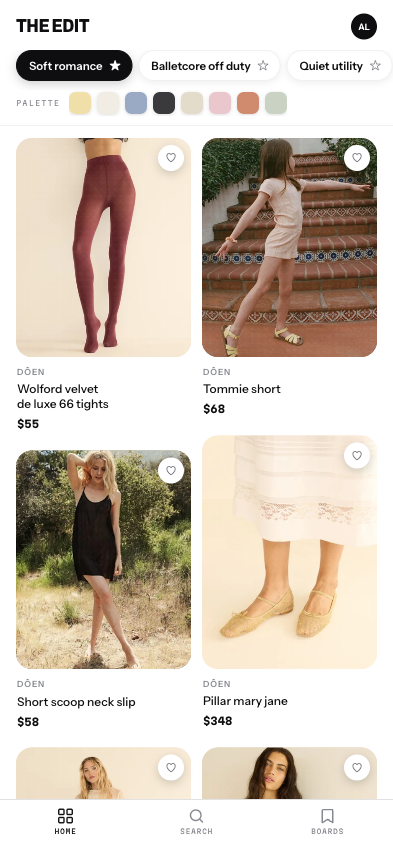
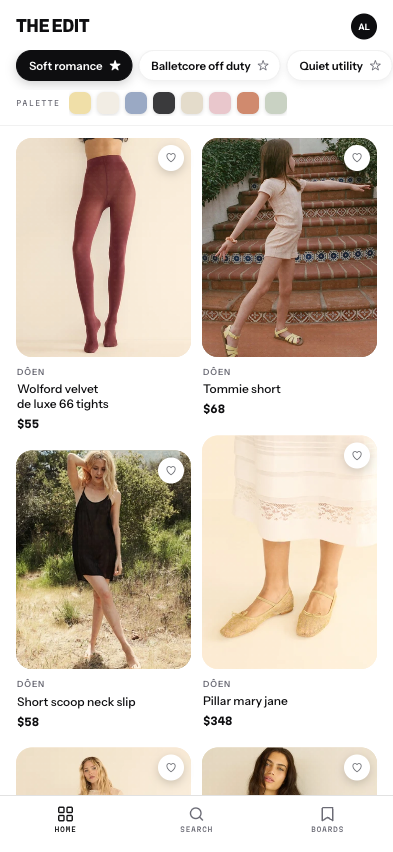
Phase 5: keyboard, targets and contrast, measured rather than asserted
Every finding here came from driving the app and reading numbers off it.

The save sheet was not a modal for anyone using a keyboard. aria-modal told
assistive tech the page behind was unavailable while Tab walked straight out
into twelve controls underneath, and opening the sheet left focus on the button
that opened it — so a keyboard user got a dialog they were not in. Focus now
moves in on open, Tab cycles within and wraps at both ends, Escape closes, and
focus returns to whatever opened it. That last part matters most: landing on
<body> after a dialog closes means the next Tab starts from the top of the page.

Tap targets. Everything now clears 44px tall. Where the visual size is the
design's, an invisible ::after stretches the hit area without moving a pixel —
the save heart goes from 26px to 44, the chips and their stars from 29.

Two stay narrow on purpose and I would rather say so than quietly claim 44.
The palette swatches are 22px on a 31px pitch, so a 44px-wide target would
overlap its neighbour by 13px and the overlap would decide which colour you
got; they take the gap and no more, 31×44. The star inside a chip is 25 wide
because widening it would put its target over the next chip's label. Both clear
WCAG 2.5.8's 24px minimum with spacing.

Contrast. The garment label was the case that could not be asserted from
tokens, because it sits on a colour the catalogue supplies. Measured across all
[…]

Changed region(s): [[0.0305, 0.9155, 0.5191, 0.9765], [0.5191, 0.9155, 0.9771, 0.9765]]

diff --git a/components/BottomSheet.tsx b/components/BottomSheet.tsx
@@ -1,6 +1,6 @@
 "use client";
 
-import { useEffect } from "react";
+import { useEffect, useRef } from "react";
 import type { CSSProperties, ReactNode } from "react";
 import styles from "./BottomSheet.module.css";
 
@@ -14,10 +14,24 @@ export type BottomSheetProps = {
   style?: CSSProperties;
 };
 
+/** Everything a keyboard can land on, in document order. */
+const FOCUSABLE =
+  'button, a[href], input, textarea, select, [tabindex]:not([tabindex="-1"])';
+
 /**
  * BottomSheet — the bottom-anchored modal used for Save to board.
  * Renders nothing when closed. It positions against the nearest
  * positioned ancestor, so keep it inside the app frame.
+ *
+ * It is a real modal for the keyboard as well as for the screen. It was not:
+ * aria-modal told assistive tech the page behind was unavailable while Tab
+ * walked straight out into it, and opening the sheet left focus on the button
+ * that opened it — so a keyboard user got a dialog they were not in and could
+ * tab through twelve controls they could not see.
+ *
+ * So: focus moves in on open, Tab cycles within, Escape closes, and focus
+ * returns to whatever opened it. That last part matters most — losing your
+ * place on close is worse than never having been moved.
  */
 export default function BottomSheet({
   open = false,
@@ -27,13 +41,54 @@ export default function BottomSheet({
   className,
   style,
 }: BottomSheetProps) {
+  const sheetRef = useRef<HTMLDivElement>(null);
+  /* Whatever had focus when this opened, so it can be given back. */
+  const opener = useRef<HTMLElement | null>(null);
+
   useEffect(() => {
-    if (!open || !onClose) return;
+    if (!open) return;
+
+    opener.current = document.activeElement as HTMLElement | null;
+
+    /* Into the sheet, on the first thing worth touching — the first board in
+       the list rather than the drag handle. */
+    const first = sheetRef.current?.querySelector<HTMLElement>(FOCUSABLE);
+    (first ?? sheetRef.current)?.focus();
+
     const onKey = (e: KeyboardEvent) => {
-      if (e.key === "Escape") onClose();
+      if (e.key === "Escape") {
+        onClose?.();
+        return;
+      }
+      if (e.key !== "Tab") return;
+
+      const inSheet = Array.from(
+        sheetRef.current?.querySelectorAll<HTMLElement>(FOCUSABLE) ?? [],
+      ).filter((el) => el.offsetParent !== null);
+      if (inSheet.length === 0) return;
+
+      const firstEl = inSheet[0];
+      const lastEl = inSheet[inSheet.length - 1];
+      const active = document.activeElement;
+
+      /* Wrap at both ends, and pull focus back in if it has escaped —
+         which it will have done if the sheet opened while focus was outside. */
+      if (e.shiftKey && (active === firstEl || !sheetRef.current?.contains(active))) {
+        e.preventDefault();
+        lastEl.focus();
+      } else if (!e.shiftKey && (active === lastEl || !sheetRef.current?.contains(active))) {
+        e.preventDefault();
+        firstEl.focus();
+      }
     };
+
     window.addEventListener("keydown", onKey);
-    return () => window.removeEventListener("keydown", onKey);
+    return () => {
+      window.removeEventListener("keydown", onKey);
+      /* Back where they were. Focus landing on <body> after a dialog closes
+         means the next Tab starts from the top of the page. */
+      opener.current?.focus?.();
+    };
   }, [open, onClose]);
 
   if (!open) return null;
@@ -47,9 +102,13 @@ export default function BottomSheet({
         className={styles.scrim}
       />
       <div
+        ref={sheetRef}
         role="dialog"
         aria-modal="true"
         aria-label={title}
+        /* Focusable so there is somewhere to put focus when the sheet holds
+           no controls of its own. */
+        tabIndex={-1}
         className={[styles.sheet, className].filter(Boolean).join(" ")}
         style={style}
       >

diff --git a/components/CanvasSwatch.module.css b/components/CanvasSwatch.module.css
@@ -62,16 +62,35 @@
 /* Names the garment, so a placeholder still tells you what it is. */
 .label {
   position: absolute;
-  left: 0;
-  right: 0;
+  /* Centred on its own width rather than stretched across the field: with
+     left and right both zero the chip would span the whole card. */
+  left: 50%;
+  transform: translateX(-50%);
   bottom: var(--space-2);
-  text-align: center;
   font-family: var(--font-mono);
   font-size: 6.5px;
   letter-spacing: 0.2em;
   text-transform: uppercase;
-  color: var(--label-on-fabric);
   pointer-events: none;
+
+  /* A chip, not tinted text.
+
+     This label names the garment on a field whose colour comes from the
+     catalogue — a fabric tone, or a photograph's measured ground — so there is
+     no colour it can be that clears AA on all of them. Measured across the 96
+     grounds in the catalogue, the old rgba(14,14,16,0.34) ran from 1.11:1 to
+     2.24:1 and passed on none: 34% alpha caps the contrast at about 2.2
+     whatever sits behind it.
+
+     So it carries its own background, which is what Badge and the save heart
+     already do over imagery. Ink on white is ~19:1 and cannot be undone by a
+     re-ingest bringing different photographs. */
+  display: inline-block;
+  padding: 3px 7px;
+  border-radius: 7px;
+  background: var(--white);
+  color: var(--ink-0);
+  box-shadow: var(--shadow-badge);
 }
 
 .labelLarge {

diff --git a/components/screens/OutfitList.module.css b/components/screens/OutfitList.module.css
@@ -109,15 +109,35 @@
 
 .pieceLabel {
   position: absolute;
-  left: 0;
-  right: 0;
+  /* Centred on its own width rather than stretched across the field: with
+     left and right both zero the chip would span the whole card. */
+  left: 50%;
+  transform: translateX(-50%);
   bottom: 6px;
-  text-align: center;
   font-family: var(--font-mono);
   font-size: 6px;
   letter-spacing: 0.18em;
   text-transform: uppercase;
-  color: var(--label-on-fabric);
+
+  /* A chip, not tinted text.
+
+     This label names the garment on a field whose colour comes from the
+     catalogue — a fabric tone, or a photograph's measured ground — so there is
+     no colour it can be that clears AA on all of them. Measured across the 96
+     grounds in the catalogue, the old rgba(14,14,16,0.34) ran from 1.11:1 to
+     2.24:1 and passed on none: 34% alpha caps the contrast at about 2.2
+     whatever sits behind it.
+
+     So it carries its own background, which is what Badge and the save heart
+     already do over imagery. Ink on white is ~19:1 and cannot be undone by a
+     re-ingest bringing different photographs. */
+  display: inline-block;
+  padding: 3px 7px;
+  border-radius: 7px;
+  background: var(--white);
+  color: var(--ink-0);
+  box-shadow: var(--shadow-badge);
+
 }
 
 .pieceTitle {

diff --git a/components/Chip.module.css b/components/Chip.module.css
@@ -2,6 +2,7 @@
    White and lifted when idle, ink-filled when active. */
 
 .chip {
+  position: relative;
   flex: 0 0 auto;
   padding: 5px var(--space-3);
   border-radius: var(--radius-pill);
@@ -65,6 +66,7 @@
 }
 
 .star {
+  position: relative;
   display: flex;
   align-items: center;
   padding: 0 10px 0 2px;
@@ -88,4 +90,19 @@
 
 .groupActive .starOn {
   color: var(--white);
+}
+
+/* ---- Touch target -------------------------------------------------------
+   The visual size is the design's; the *tappable* size is not, and the two do
+   not have to match. An invisible ::after stretches the hit area without
+   moving a pixel on screen or changing layout.
+   -------------------------------------------------------------------------- */
+
+.chip::after,
+.star::after {
+  content: "";
+  position: absolute;
+  /* Vertical only. The row has space above and below; widening would have one
+     chip's target cover the next chip's label. */
+  inset: -7.5px 0;
 }

diff --git a/design/design-system/tokens/colors.css b/design/design-system/tokens/colors.css
@@ -31,7 +31,13 @@
   --canvas-2:  #F3F4F6;   /* sunken / inset wells, inputs, chips    */
   --ink-0:     #0E0E10;   /* primary cool near-black text           */
   --ink-1:     #43454A;   /* secondary text                         */
-  --ink-2:     #86888F;   /* muted / meta text                      */
+  /* Darkened from #86888F on 15 August. Measured on every surface muted text
+     actually sits on, it ran 3.14:1 to 3.54:1 and cleared AA on none of them
+     — the eyebrow labels, the brand name on a card and the tab labels are all
+     small text needing 4.5:1. #6C6C76 is the lightest value that passes on the
+     darkest of those grounds (--surface-sunken, 4.61:1) and reads as muted
+     still. */
+  --ink-2:     #6C6C76;   /* muted / meta text                      */
   --line-0:    rgba(14,14,16,0.12);  /* hairline borders            */
   --line-1:    rgba(14,14,16,0.06);  /* faint dividers              */
   --white:     #FFFFFF;

diff --git a/styles/design-system/tokens/colors.css b/styles/design-system/tokens/colors.css
@@ -31,7 +31,13 @@
   --canvas-2:  #F3F4F6;   /* sunken / inset wells, inputs, chips    */
   --ink-0:     #0E0E10;   /* primary cool near-black text           */
   --ink-1:     #43454A;   /* secondary text                         */
-  --ink-2:     #86888F;   /* muted / meta text                      */
+  /* Darkened from #86888F on 15 August. Measured on every surface muted text
+     actually sits on, it ran 3.14:1 to 3.54:1 and cleared AA on none of them
+     — the eyebrow labels, the brand name on a card and the tab labels are all
+     small text needing 4.5:1. #6C6C76 is the lightest value that passes on the
+     darkest of those grounds (--surface-sunken, 4.61:1) and reads as muted
+     still. */
+  --ink-2:     #6C6C76;   /* muted / meta text                      */
   --line-0:    rgba(14,14,16,0.12);  /* hairline borders            */
   --line-1:    rgba(14,14,16,0.06);  /* faint dividers              */
   --white:     #FFFFFF;

diff --git a/components/ColorDot.module.css b/components/ColorDot.module.css
@@ -2,6 +2,7 @@
    ink ring when it is the active filter. */
 
 .dot {
+  position: relative;
   flex: 0 0 auto;
   display: block;
   width: var(--dot-size);
@@ -18,4 +19,19 @@
 
 .active {
   box-shadow: var(--ring-active);
+}
+
+/* ---- Touch target -------------------------------------------------------
+   The visual size is the design's; the *tappable* size is not, and the two do
+   not have to match. An invisible ::after stretches the hit area without
+   moving a pixel on screen or changing layout.
+   -------------------------------------------------------------------------- */
+
+.dot::after {
+  content: "";
+  position: absolute;
+  /* 44px tall, which is free — nothing sits above or below the row. Only as
+     wide as the 9px gap allows: two 44px-wide targets on a 31px pitch would
+     overlap by 13px, and the overlap would decide which colour you got. */
+  inset: -11px -4.5px;
 }

diff --git a/styles/design-system/tokens/extensions.css b/styles/design-system/tokens/extensions.css
@@ -23,7 +23,12 @@
   --fabric-sage:    #C9D2C3;
   --fabric-ink:     #3A3A3C;
 
-  /* Mono label sitting on a fabric placeholder — "CARDIGAN". */
+  /* Mono label sitting on a fabric placeholder — "CARDIGAN".
+     UNUSED, and deliberately so. Measured across the 96 grounds the catalogue
+     puts behind this label, it ran 1.11:1 to 2.24:1 and cleared AA on none of
+     them — 34% alpha cannot exceed about 2.2:1 whatever sits behind it. The
+     label carries a white chip instead. Kept here only so the value is not
+     reinstated from the design file without this note. */
   --label-on-fabric: rgba(14, 14, 16, 0.34);
 
   /* ---- Color ---- */

diff --git a/components/ProductCard.module.css b/components/ProductCard.module.css
@@ -172,3 +172,16 @@
   line-height: 1.45;
   color: var(--text-body);
 }
+
+/* ---- Touch target -------------------------------------------------------
+   The visual size is the design's; the *tappable* size is not, and the two do
+   not have to match. An invisible ::after stretches the hit area without
+   moving a pixel on screen or changing layout.
+   -------------------------------------------------------------------------- */
+
+.heart::after {
+  content: "";
+  position: absolute;
+  /* 26px becomes 44px. Free in every direction — the corner is empty. */
+  inset: -9px;
+}

diff --git a/components/TabBar.module.css b/components/TabBar.module.css
@@ -21,7 +21,9 @@
   flex-direction: column;
   align-items: center;
   gap: 3px;
-  padding: 7px 0 5px;
+  /* 40px tall was under the 44 minimum. Two pixels top and bottom, which the
+     bar has room for and nothing else in the layout depends on. */
+  padding: 9px 0 7px;
   border: none;
   background: none;
   cursor: pointer;
